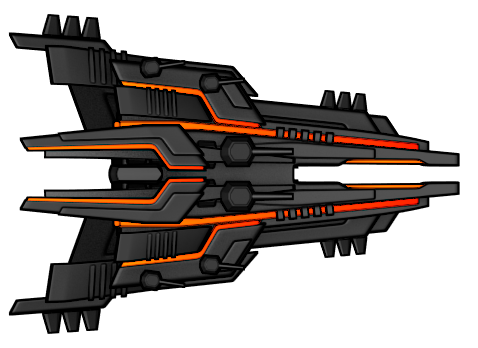
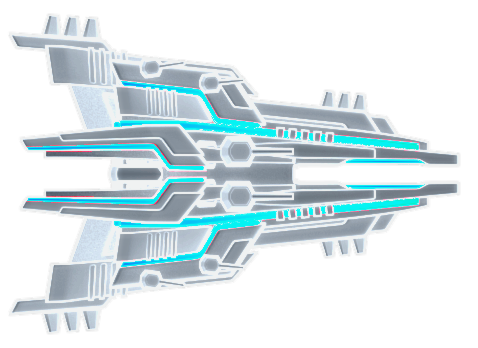
update all

diff --git a/sketch.js b/sketch.js
@@ -12,11 +12,12 @@ let player_camera;
 // player & enemies
 let player;
 let player_laser = [];
+let player_upgrade = [];
 let enemy = [];
 let enemy_laser = [];
 
 // shop
-let main_shop;
+let main_base;
 
 let blast_interval;
 
@@ -26,24 +27,24 @@ function setup()
     imageMode( CENTER );
 
     // buttons
-    start_button = new button( width / 2, height / 2 + 100, 300, 60 );
+    start_button = new button( width * 4 / 5, height / 2 + 150, 300, 60 );
     play_button = new button( width / 2, height / 11, 300, 60 );
-    options_button = new button( width / 2, height / 2 + 200, 300, 60 );
-    credits_button = new button( width / 2, height / 2 + 300, 300, 60 );
+    options_button = new button( width * 4 / 5, height / 2 + 250, 300, 60 );
+    credits_button = new button( width * 4 / 5, height / 2 + 350, 300, 60 );
 
     return_main_button = new button( width / 13, height / 12, 50, 50 );
     return_game_button = new button( width / 13, height / 12, 50, 50 );
 
-    levelup_button1 = new button( width / 5, height / 2, 250, 450 );
-    levelup_button2 = new button( width / 2, height / 2, 250, 450 );
-    levelup_button3 = new button( width * 4 / 5, height / 2, 250, 450 );
-
+    levelup_button1 = new button( width / 5, height / 2, 300, 600 );
+    levelup_button2 = new button( width / 2, height / 2, 300, 600 );
+    levelup_button3 = new button( width * 4 / 5, height / 2, 300, 600 );
 
     // camera
     player_camera = new Camera();
 
     // player
     player = new spaceship( 0, 0, 30 );
+    player.fireDmg = 50;
 
     // enemy
     enemy.push( new spaceship( 100, height / 2, 30, 50 ) );
@@ -52,7 +53,9 @@ function setup()
     enemy.push( new spaceship( -300, height / 2 - 100, 30, 50 ) );
     enemy[ 3 ].velocity.setAngle( radians( 180 ) );
 
-    main_shop = new shop( -500, -500 );
+    // base
+    main_base = new base( -500, -500 );
+
 }
 
 function draw()
@@ -126,7 +129,7 @@ function draw()
         player_camera.beginDraw();
 
         // update shop
-        main_shop.draw();
+        main_base.draw();
 
         // update enemies
         for ( let i = 0; i < enemy.length; i++ )
@@ -193,16 +196,16 @@ function draw()
         // update player
         player.update();
         player.draw_interface();
-        if ( player.position.x > main_shop.x - main_shop.width / 2 && player.position.x < main_shop.x + main_shop
+        if ( player.position.x > main_base.x - main_base.width / 2 && player.position.x < main_base.x + main_base
             .width / 2 &&
-            player.position.y > main_shop.y - main_shop.height / 2 && player.position.y < main_shop.y + main_shop
+            player.position.y > main_base.y - main_base.height / 2 && player.position.y < main_base.y + main_base
             .height / 2 && current_screen == game_screen )
             enter_shop();
+
+        // player level up
         if ( player.exp == player.max_exp )
         {
-            player.level += 1;
-            player.exp = 0;
-            player.max_exp += 30;
+            level_up();
         }
 
         break;
@@ -210,15 +213,30 @@ function draw()
         // level up screen
     case level_up_screen:
 
-        levelup_button1.draw();
-        levelup_button2.draw();
-        levelup_button3.draw();
+        levelup_button1.draw( upgrade1 );
+        levelup_button2.draw( upgrade2 );
+        levelup_button3.draw( upgrade3 );
+        if ( levelup_button1.clicked() )
+        {
+            player_upgrade[ player.level - 2 ] = upgrade1;
+            current_screen = game_screen;
+        }
+        else if ( levelup_button2.clicked() )
+        {
+            player_upgrade[ player.level - 2 ] = upgrade2;
+            current_screen = game_screen;
+        }
+        else if ( levelup_button3.clicked() )
+        {
+            player_upgrade[ player.level - 2 ] = upgrade2;
+            current_screen = game_screen;
+        }
 
         break;
 
         // shop screen
     case shop_screen:
-        main_shop.draw_interface(player);
+        main_base.draw_interface( player );
 
         break;
     }
@@ -234,9 +252,9 @@ function draw()
         }
     }
 
-    // if current screen is level up screen or shop screen,
+    // if current screen is shop screen,
     // draw return game button
-    else if ( current_screen > game_screen )
+    else if ( current_screen > game_screen && current_screen != level_up_screen )
     {
         return_game_button.draw( '◁' );
         if ( return_game_button.clicked() )
@@ -254,12 +272,7 @@ function player_blastLaser()
 function enemy_blastLaser()
 {
     for ( let i = 0; i < enemy.length; i++ )
-    {
-        if ( enemy[ i ].hp > 0 )
-        {
-            enemy_laser.push( new laser( enemy[ i ], enemy[ i ].fireDmg ) );
-        }
-    }
+        enemy_laser.push( new laser( enemy[ i ], enemy[ i ].fireDmg ) );
 }
 
 // press space bar = shooting laser 
@@ -270,7 +283,6 @@ function keyPressed()
     {
         setTimeout( player_blastLaser, 0 );
         blast_interval = setInterval( player_blastLaser, fireRate );
-
         setTimeout( enemy_blastLaser, 0 );
     }
 }
@@ -289,12 +301,27 @@ function keyReleased()
     }
 }
 
+// entering shop
 function enter_shop()
 {
-    player.position.x = main_shop.x + main_shop.width * 2;
-    player.position.y = main_shop.y;
+    player.position.x = main_base.x + main_base.width * 2;
+    player.position.y = main_base.y;
     player.velocity.setLength( 0 );
     player.velocity.setAngle( 0 );
     player.acceleration.setLength( 0 );
     current_screen = shop_screen;
+}
+
+// level up
+function level_up()
+{
+    player.level += 1;
+    player.exp = 0;
+    player.max_exp += 30;
+    player.velocity.setLength( 0 );
+    current_screen = level_up_screen;
+
+    upgrade1 = int( random( 0, 10 ) );
+    upgrade2 = int( random( 0, 10 ) );
+    upgrade3 = int( random( 0, 10 ) );
 }

diff --git a/spaceship.js b/spaceship.js
@@ -17,7 +17,7 @@ class spaceship
 
         this.level = 1;
         this.exp = 0;
-        this.max_exp = 20;
+        this.max_exp = 30;
         this.coin = 0;
 
         this.hp = health;
@@ -79,14 +79,20 @@ class spaceship
         translate( this.position.x, this.position.y );
         rotate( this.velocity.getAngle() );
         noStroke();
-        image( player_spaceship_img, 0, 0, 80, 80 );
+        if ( this.team == 0 )
+            image( player_spaceship_img, 0, 0, 80, 80 );
+        else
+            image( enemy_spaceship_img, 0, 0, 80, 80 );
         pop();
 
         // hit box
         push();
         noFill();
         strokeWeight( 3 );
-        stroke( "red" );
+        if ( this.team == 0 )
+            stroke( "blue" );
+        else
+            stroke( "red" );
         circle( this.position.x, this.position.y, this.diameter * 2 );
         pop();
     }
@@ -127,10 +133,10 @@ class spaceship
         rectMode( CORNER );
         rect( width / 4 - 100, height * 19 / 20 - 15, map( this.exp, 0, this.max_exp, 0, 200 ), 30 );
         push();
-        fill(0);
-        textAlign(CENTER,CENTER);
-        textSize(30);
-        text(this.exp + " / " + this.max_exp, width / 4 ,height * 19 / 20);
+        fill( 0 );
+        textAlign( CENTER, CENTER );
+        textSize( 30 );
+        text( this.exp + " / " + this.max_exp, width / 4, height * 19 / 20 );
         pop();
 
         // hp bar
@@ -143,10 +149,10 @@ class spaceship
         rectMode( CORNER );
         rect( width / 4.5 - 135, height * 17.5 / 20 - 15, map( this.hp, 0, this.max_hp, 0, 270 ), 30 );
         push();
-        fill(0);
-        textAlign(CENTER,CENTER);
-        textSize(30);
-        text(this.hp + " / " + this.max_hp, width / 4.5 ,height * 17.5 / 20);
+        fill( 0 );
+        textAlign( CENTER, CENTER );
+        textSize( 30 );
+        text( this.hp + " / " + this.max_hp, width / 4.5, height * 17.5 / 20 );
         pop();
 
         // coordinate
@@ -170,7 +176,7 @@ class spaceship
         }
     }
 
-    reward(player)
+    reward( player )
     {
         player.coin += this.level * 10;
         player.exp += this.level * 10;

diff --git a/base.js b/base.js
@@ -4,14 +4,19 @@
 // Spring 2021
 
 // upgrade level
-let spd_level = 0;
-let dmg_level = 0;
-let rate_level = 0;
-let hp_level = 0;
-let armor_level = 0;
+let spd_level = 1;
+let dmg_level = 1;
+let rate_level = 1;
+let hp_level = 1;
+let armor_level = 1;
 let barrier_level = 1;
 
-class shop
+// level up gadget
+let upgrade1;
+let upgrade2;
+let upgrade3;
+
+class base
 {
     constructor( start_x, start_y )
     {
@@ -42,8 +47,6 @@ class shop
         textSize( 50 );
         text( ": " + player.coin, width * 2 / 7, height / 15 );
         pop();
-
-        
     }
 
     upgrade( player )

diff --git a/media.js b/media.js
@@ -16,9 +16,11 @@ function preload()
 {
     // images
     player_spaceship_img = loadImage( 'assets/spaceship_player.png' );
+    enemy_spaceship_img = loadImage( 'assets/spaceship_enemy.png' );
     shop_img = loadImage( 'assets/shopStation.png' );
     coin_img = loadImage( 'assets/coin.png' );
 
-    // sounds
+    // sound
+    soundFormats('mp3', 'ogg');
     bgm = loadSound( 'assets/bgm.mp3' );
 }

diff --git a/laser.js b/laser.js
@@ -23,7 +23,10 @@ class laser
         this.position.addTo( this.velocity );
 
         push();
-        stroke( '#E1411F' );
+        if(this.team == 0)
+            stroke( "#00F3FF" );
+        else
+            stroke( "#E1411F" );
         strokeWeight( 2 );
         line( this.position.x, this.position.y, this.position.x - this.velocity.x * 4, this.position.y - this
             .velocity.y * 4 );

diff --git a/index.html b/index.html
@@ -21,7 +21,7 @@
     <script src="Vec2.js"></script>
     <script src="button.js"></script>
     <script src="spaceship.js"></script>
-    <script src="shop.js"></script>
+    <script src="base.js"></script>
     <script src="laser.js"></script>
     <script src="guard.js"></script>
 </body>
